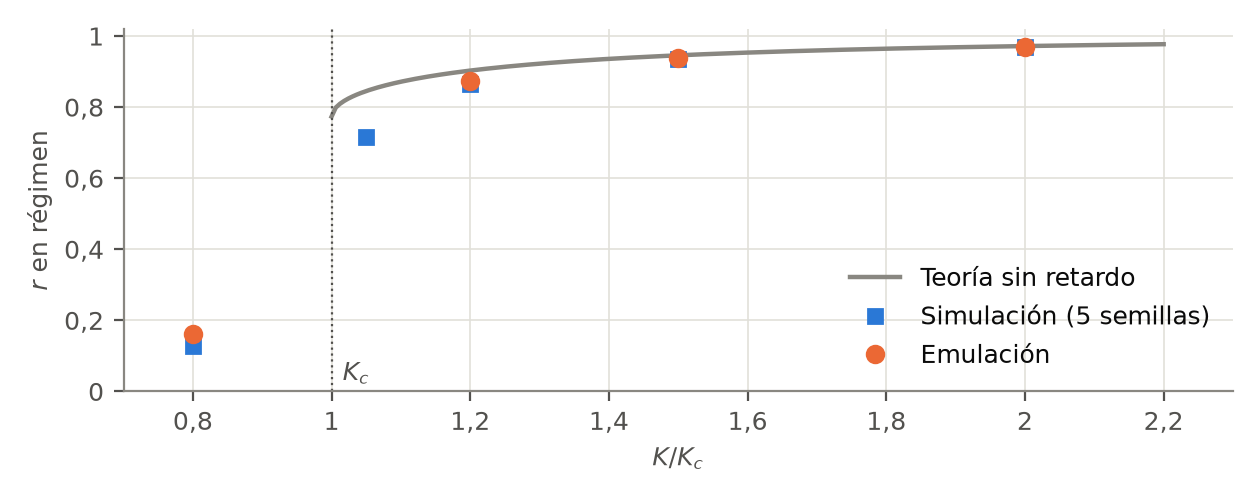
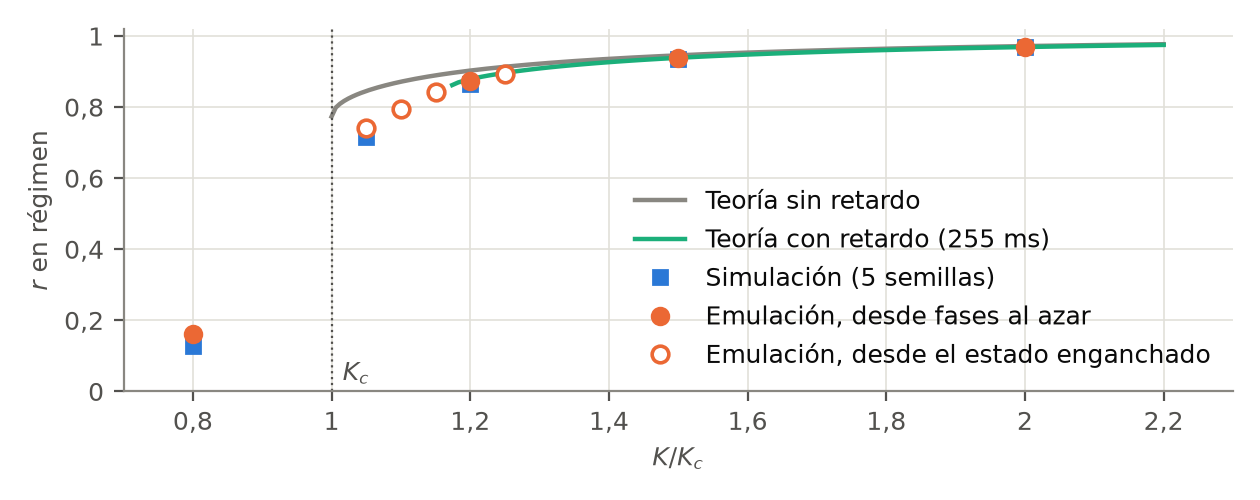
feat(monografia): actualizar las figuras y tablas del experimento 2

diff --git a/monografía/experimentos/sincronizacion/host/figuras.py b/monografía/experimentos/sincronizacion/host/figuras.py
@@ -32,6 +32,7 @@ AZUL, NARANJA, AQUA, AMARILLO = "#2a78d6", "#eb6834", "#1baf7a", "#eda100"
 TEXTO, SECUNDARIO, TENUE, GRILLA = "#0b0b0b", "#52514e", "#898781", "#e1e0d9"
 CORTE = "#e1e0d9"
 R_REFERENCIA = 0.937  # r en régimen de la calibración, con K = 1,5 K_c y sin perturbaciones
+TAU_REFERENCIA = 0.255  # h / 2 más unos 5 ms de transporte, con h = 500 ms
 
 plt.rcParams.update({
     "font.size": 9, "axes.edgecolor": TENUE, "axes.labelcolor": SECUNDARIO, "text.color": TEXTO,
@@ -151,11 +152,19 @@ def fig_modelo_rk(base, salida, tabla, sim, w):
     kc = float(teoria.kc_finito(w))
     ax.plot(grilla, [teoria.r_enganchado(w, x * kc) for x in grilla], color=TENUE, label="Teoría sin retardo")
     sim_k = sorted({x[0] for x in filas})
+    umbral = teoria.umbral_con_retardo(w, TAU_REFERENCIA)
+    con_retardo = np.linspace(umbral, 2.2, 120)
+    ax.plot(con_retardo, [teoria.estado_con_retardo(w, x * kc, TAU_REFERENCIA)[1] for x in con_retardo], color=AQUA,
+            label=f"Teoría con retardo ({TAU_REFERENCIA * 1e3:.0f} ms)")
     ax.plot(sim_k, [np.mean([x[2] for x in filas if x[0] == k]) for k in sim_k], ls="none", marker="s", ms=5,
             color=AZUL, label="Simulación (5 semillas)")
-    med = [(float(tabla[f"modelo_k{k}_sin-netem_s1"]["k_veces_kc"]), float(tabla[f"modelo_k{k}_sin-netem_s1"]["r_medio"]))
-           for k in ("0.8", "1.2", "1.5", "2")]
-    ax.plot(*zip(*med), ls="none", marker="o", ms=6, color=NARANJA, label="Emulación")
+    def medidos(prefijo, valores):
+        return [(float(tabla[f"{prefijo}_k{k}_sin-netem_s1"]["k_veces_kc"]), float(tabla[f"{prefijo}_k{k}_sin-netem_s1"]["r_medio"]))
+                for k in valores]
+    ax.plot(*zip(*medidos("modelo", ("0.8", "1.2", "1.5", "2"))), ls="none", marker="o", ms=6, color=NARANJA,
+            label="Emulación, desde fases al azar")
+    ax.plot(*zip(*medidos("umbral", ("1.05", "1.1", "1.15", "1.25"))), ls="none", marker="o", ms=6, mfc="white",
+            mec=NARANJA, mew=1.3, label="Emulación, desde el estado enganchado")
     _ejes_r_k(ax)
     ax.legend(loc="lower right")
     guardar(fig, salida, "02_modelo_r_k")
@@ -227,12 +236,13 @@ def fig_qos(base, salida):
     fig, ax = plt.subplots(figsize=(ANCHO, ALTO))
     ax.axhline(R_REFERENCIA, color=TENUE, ls="--", label="Sin pérdida (referencia)")
     casos = (("qos0_perdida_k1.5_perdida-5_s1", AZUL, "QoS 0, 5 % de pérdida"),
-             ("qos1_perdida_k1.5_perdida-5_s1", NARANJA, "QoS 1, 5 % de pérdida"))
+             ("qos1_perdida_k1.5_perdida-5_s1", NARANJA, "QoS 1, 5 % de pérdida"),
+             ("qos1_sin_perdida_k1.5_sin-netem_s1", AQUA, "QoS 1, sin pérdida"))
     for nombre, color, etiqueta in casos:
         s = serie(base, nombre)
         ax.plot(s["t_s"], s["r"], color=color, label=etiqueta)
     ax.set(xlabel="Tiempo desde el inicio (s)", ylabel="$r$", ylim=(0, 1.02), xlim=(0, 90))
-    ax.legend(ncol=3, loc="upper center", bbox_to_anchor=(0.5, 1.2))
+    ax.legend(ncol=2, loc="upper center", bbox_to_anchor=(0.5, 1.3))
     coma(ax)
     guardar(fig, salida, "07_qos")
 
@@ -255,10 +265,11 @@ def tablas(base, salida, tabla, sim):
         tr = {x["corrida"]: x for x in csv.DictReader(f, delimiter=";")}
     out = ["# Tablas del experimento de sincronización\n"]
     out += ["## Modelo\n", "| K/K_c | r emulación | r simulación (media de 5) | r teoría | Engancha |", "|---|---|---|---|---|"]
-    for k in ("0.8", "1.2", "1.5", "2"):
-        x = tabla[f"modelo_k{k}_sin-netem_s1"]
+    for prefijo, k in (("modelo", "0.8"), ("umbral", "1.05"), ("umbral", "1.1"), ("umbral", "1.15"), ("modelo", "1.2"),
+                       ("umbral", "1.25"), ("modelo", "1.5"), ("modelo", "2")):
+        x = tabla[f"{prefijo}_k{k}_sin-netem_s1"]
         rs = [y[2] for y in filas if abs(y[0] - float(k)) < 1e-9]
-        out.append(f"| {k} | {x['r_medio']} | {np.mean(rs):.4f} | {x['r_teorico'] or '-'} | {x['enganchado']} |")
+        out.append(f"| {k} | {x['r_medio']} | {f'{np.mean(rs):.4f}' if rs else '-'} | {x['r_teorico'] or '-'} | {x['enganchado']} |")
     out += ["\n## Tráfico\n",
             "| Corrida | N | QoS | Alias | Total B/s | Subida B/s·nodo | Bajada B/s·nodo | PUBLISH bajada B | Tópico | Protobuf B | Retrans. | Edad p50 ms | p95 ms | p99 ms |",
             "|---|---|---|---|---|---|---|---|---|---|---|---|---|---|"]

diff --git a/monografía/experimentos/sincronizacion/docs/resultados/figs/tablas.md b/monografía/experimentos/sincronizacion/docs/resultados/figs/tablas.md
@@ -5,7 +5,11 @@
 | K/K_c | r emulación | r simulación (media de 5) | r teoría | Engancha |
 |---|---|---|---|---|
 | 0.8 | 0.1608 | 0.1275 | - | 0 |
+| 1.05 | 0.74189 | 0.7154 | 0.84528 | 0 |
+| 1.1 | 0.79554 | - | 0.87152 | 0 |
+| 1.15 | 0.84311 | - | 0.8894 | 0 |
 | 1.2 | 0.87233 | 0.8655 | 0.90287 | 1 |
+| 1.25 | 0.89227 | - | 0.91356 | 1 |
 | 1.5 | 0.93708 | 0.9360 | 0.9458 | 1 |
 | 2 | 0.96837 | 0.9680 | 0.97184 | 1 |
 
@@ -17,8 +21,14 @@
 | calibracion_k1.5_sin-netem_s1 | 20 | 0 | 0 | 100812.3 | 1273.6 | 3767.0 | 45 | 17 | 23 | 0 | 5.0 | 10.1 | 11.0 |
 | escala_n10_k1.5_sin-netem_s1 | 10 | 0 | 0 | 25555.2 | 735.5 | 1820.0 | 44 | 16 | 23 | 0 | 3.7 | 10.4 | 10.5 |
 | escala_n5_k1.5_sin-netem_s1 | 5 | 0 | 0 | 6687.2 | 461.7 | 875.8 | 44 | 16 | 23 | 0 | 2.3 | 10.5 | 10.8 |
+| keepalive_captura_k1.5_sin-netem_s1 | 20 | 0 | 0 | 99514.1 | 1287.2 | 3688.5 | 45 | 17 | 23 | 4 | 3.3 | 9.1 | 10.1 |
 | qos0_perdida_k1.5_perdida-5_s1 | 20 | 0 | 0 | 101494.7 | 1154.1 | 3920.6 | 45 | 17 | 23 | 3041 | 8.6 | 1230.8 | 3267.1 |
+| qos0_rep_k1.5_perdida-5_s2 | 20 | 0 | 0 | 101802.0 | 1161.8 | 3928.3 | 45 | 17 | 23 | 3085 | 8.4 | 1080.7 | 2008.1 |
+| qos0_rep_k1.5_perdida-5_s3 | 20 | 0 | 0 | 101912.7 | 1167.3 | 3928.3 | 45 | 17 | 23 | 3063 | 8.4 | 1142.3 | 1835.9 |
 | qos1_perdida_k1.5_perdida-5_s1 | 20 | 1 | 0 | 87959.8 | 1099.8 | 3298.2 | 47 | 17 | 23 | 3422 | 13385.0 | 29202.6 | 36002.0 |
+| qos1_rep_k1.5_perdida-5_s2 | 20 | 1 | 0 | 86368.7 | 1090.4 | 3228.1 | 47 | 17 | 23 | 3397 | 13148.0 | 30552.7 | 35902.3 |
+| qos1_rep_k1.5_perdida-5_s3 | 20 | 1 | 0 | 88187.2 | 1107.7 | 3301.7 | 47 | 17 | 23 | 3447 | 12532.2 | 28984.1 | 35106.6 |
+| qos1_sin_perdida_k1.5_sin-netem_s1 | 20 | 1 | 0 | 164176.9 | 2907.2 | 5301.6 | 47 | 17 | 23 | 0 | 21.7 | 46.9 | 51.7 |
 
 ## Validez
 
@@ -31,12 +41,24 @@
 | escala_n10_k1.5_sin-netem_s1 | 10 | 0 | 0.5 | 0.5 |
 | escala_n5_k1.5_sin-netem_s1 | 5 | 0 | 0.5 | 0.501 |
 | iguales_v2_k0.4_sin-netem_s1 | 20 | 4 | 0.5 | 0.51 |
+| keepalive_captura_k1.5_sin-netem_s1 | 20 | 0 | 0.5 | 0.503 |
 | keepalive_con_voluntad_k1.5_sin-netem_s1 | 20 | 0 | 0.5 | 0.508 |
 | keepalive_sin_voluntad_k1.5_sin-netem_s1 | 20 | 0 | 0.5 | 0.503 |
 | modelo_k0.8_sin-netem_s1 | 20 | 0 | 0.5 | 0.504 |
 | modelo_k1.2_sin-netem_s1 | 20 | 0 | 0.5 | 0.503 |
 | modelo_k1.5_sin-netem_s1 | 20 | 0 | 0.5 | 0.503 |
 | modelo_k2_sin-netem_s1 | 20 | 0 | 0.5 | 0.503 |
+| periodo_250_k1.1_sin-netem_s1 | 20 | 0 | 0.25 | 0.255 |
+| periodo_250_k1.5_sin-netem_s1 | 20 | 0 | 0.25 | 0.256 |
 | qos0_perdida_k1.5_perdida-5_s1 | 20 | 0 | 0.5 | 0.502 |
+| qos0_rep_k1.5_perdida-5_s2 | 20 | 0 | 0.5 | 0.508 |
+| qos0_rep_k1.5_perdida-5_s3 | 20 | 0 | 0.5 | 0.502 |
 | qos1_perdida_k1.5_perdida-5_s1 | 20 | 0 | 0.5 | 0.504 |
+| qos1_rep_k1.5_perdida-5_s2 | 20 | 0 | 0.5 | 0.501 |
+| qos1_rep_k1.5_perdida-5_s3 | 20 | 0 | 0.5 | 0.501 |
+| qos1_sin_perdida_k1.5_sin-netem_s1 | 20 | 0 | 0.5 | 0.503 |
+| umbral_k1.05_sin-netem_s1 | 20 | 0 | 0.5 | 0.504 |
+| umbral_k1.15_sin-netem_s1 | 20 | 0 | 0.5 | 0.503 |
+| umbral_k1.1_sin-netem_s1 | 20 | 0 | 0.5 | 0.506 |
+| umbral_k1.25_sin-netem_s1 | 20 | 0 | 0.5 | 0.502 |
 | union_k1.5_sin-netem_s1 | 20 | 0 | 0.5 | 0.502 |

diff --git a/monografía/experimentos/sincronizacion/docs/resultados/figs/estudio_retardo.md b/monografía/experimentos/sincronizacion/docs/resultados/figs/estudio_retardo.md
@@ -1,0 +1,58 @@
+# Estudio del retardo en el experimento de sincronización
+
+## Aplicación a las 20 frecuencias
+
+| Cantidad | Valor |
+|---|---|
+| Desintonía máxima (rad/s) | 0.2513 |
+| u* (rad/s) | 0.2591 |
+| K_c (rad/s) | 0.3350 |
+| r en K_c | 0.7735 |
+| Cotas de K_c (rad/s) | 0.2513 a 0.5027 |
+| N infinito con densidad uniforme (rad/s) | 0.3200 |
+| Dos raíces de K f(u) = u hasta K / K_c | 1.0185 |
+
+| K / K_c | Raíz | r | Mayor autovalor no trivial |
+|---|---|---|---|
+| 1.0001 | mayor | 0.7766 | -0.00441 |
+| 1.0001 | menor | 0.7703 | +0.00440 |
+| 1.05 | mayor | 0.8453 | -0.10257 |
+| 1.2 | mayor | 0.9029 | -0.21663 |
+| 1.5 | mayor | 0.9458 | -0.36959 |
+| 2 | mayor | 0.9718 | -0.57639 |
+
+## Estado enganchado con retardo uniforme
+
+| h (ms) | tau (ms) | K / K_c | Omega (rad/s) | r | Desfasaje del nodo 20 (rad) |
+|---|---|---|---|---|---|
+| 500 | 255 | 1.2 | 1.1712 | 0.8787 | 1.0267 |
+| 500 | 255 | 1.5 | 1.1372 | 0.9388 | 0.6393 |
+| 500 | 255 | 2 | 1.0928 | 0.9691 | 0.4337 |
+| 250 | 131 | 1.1 | 1.2162 | 0.8610 | 1.0317 |
+| 250 | 131 | 1.5 | 1.1910 | 0.9439 | 0.5870 |
+
+| h (ms) | tau (ms) | Umbral K / K_c | Factor 1 / cos(omega_media tau) |
+|---|---|---|---|
+| 500 | 255 | 1.174 | 1.054 |
+| 250 | 131 | 1.058 | 1.014 |
+
+## Umbral simulado desde el estado enganchado (h = 500 ms, retardo de un paso, 800 s)
+
+| K / K_c | Engancha | Dispersión de frecuencias (rad/s) | r |
+|---|---|---|---|
+| 1.05 | No | 0.20349 | 0.7081 |
+| 1.1 | No | 0.14931 | 0.7822 |
+| 1.15 | No | 0.09317 | 0.8315 |
+| 1.18 | No | 0.03240 | 0.8524 |
+| 1.19 | Sí | 0.00000 | 0.8605 |
+| 1.2 | Sí | 0.00000 | 0.8696 |
+| 1.25 | Sí | 0.00000 | 0.8910 |
+
+## Esquema cruzado (h = 500 ms, retardo de un paso, 120 s, desde el estado enganchado de 1,5 K_c)
+
+| K / K_c | Semillas | r total | r esquema normal | r esquema cruzado |
+|---|---|---|---|---|
+| 1.5 | 8 | 0.117 (0.114 a 0.120) | 0.632 (0.618 a 0.645) | 0.669 (0.660 a 0.685) |
+| 2.5 | 4 | 0.198 (0.194 a 0.206) | 0.918 (0.916 a 0.920) | 0.921 (0.918 a 0.923) |
+| 3 | 4 | 0.232 (0.231 a 0.232) | 0.947 (0.947 a 0.947) | 0.947 (0.947 a 0.947) |
+| 4 | 4 | 0.298 (0.291 a 0.303) | 0.969 (0.967 a 0.971) | 0.968 (0.966 a 0.970) |
